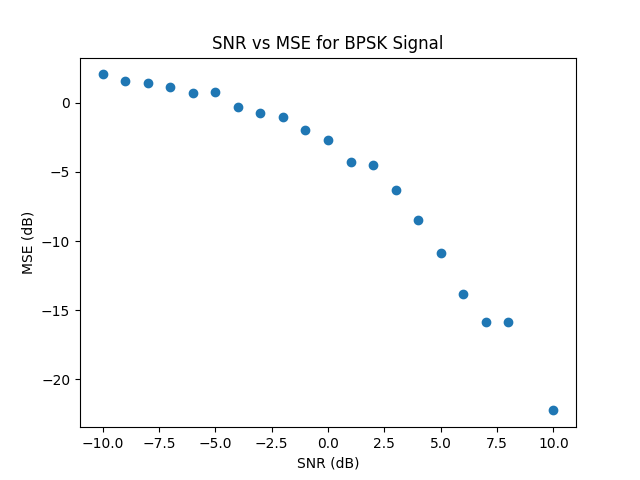
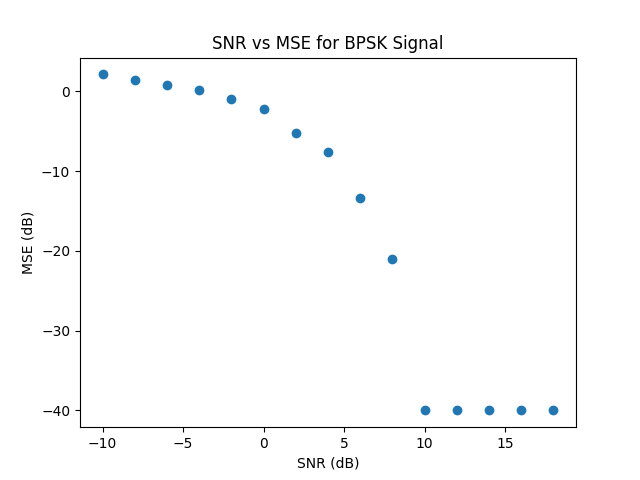
update mse

diff --git a/test_files/test_dfe_vasudevan_mse_pb.py b/test_files/test_dfe_vasudevan_mse_pb.py
@@ -104,48 +104,68 @@ ns = fs / R
 fc = 16e3
 uf = int(fs / R)
 df = int(uf / ns)
+use_rrc = np.array([False,True])
+mse = np.zeros((len(use_rrc),len(snr_dB)),dtype='float')
 
-d = np.array(sg.max_len_seq(bits)[0]) * 2 - 1.0
-# Training phase
-training_sym = np.tile(d, training_rep)
-training_seq = training_sym
-training_seq /= np.max(np.abs(training_seq))
+for k in range(len(use_rrc)):
+    d = np.array(sg.max_len_seq(bits)[0]) * 2 - 1.0
+    _, rc_tx = rrcosfilter(16 * int(1 / R * fs), 0.5, 1 / R, fs)
+    _, rc_rx = rrcosfilter(16 * int(fs / R), 0.5, 1 / R, fs)
+    # Training phase
+    training_sym = np.tile(d, training_rep)
+    # upsample
+    training_sym_up = sg.resample_poly(training_sym,ns,1)
+    if use_rrc[k] == True:
+        training_sym_up = np.convolve(training_sym_up, rc_tx, "full")
+        # training_sym_up = training_sym_up[:int(len(training_sym)*ns)]
+    training_seq = np.real(training_sym_up * np.exp(2j * np.pi * fc * np.arange(len(training_sym_up)) / fs))
+    training_seq /= np.max(np.abs(training_seq))
 
-# Data transmission phase
-data_sym = np.tile(d, rep)
-data_seq = data_sym
-data_seq /= np.max(np.abs(data_seq))
+    # Data transmission phase
+    data_sym = np.tile(d, rep)
+    # upsample
+    data_sym_up = sg.resample_poly(data_sym,ns,1)
+    if use_rrc[k] == True:
+        data_sym_up = np.convolve(data_sym_up, rc_tx, "full")
+        # data_sym_up = data_sym_up[:int(len(data_sym)*ns)]
+    data_seq = np.real(data_sym_up * np.exp(2j * np.pi * fc * np.arange(len(data_sym_up)) / fs))
+    data_seq /= np.max(np.abs(data_seq))
+    training_len = len(training_seq)
+    data_len = len(data_seq)
 
-training_len = len(training_seq)
-data_len = len(data_seq)
+    fade_chan = [1, 0.5]#[0.407, 0.815, 0.407]
+    fade_chan = fade_chan / np.linalg.norm(fade_chan)
+    chan_len = len(fade_chan)
 
-fade_chan = [1, 0.5]#[0.407, 0.815, 0.407]
-fade_chan = fade_chan / np.linalg.norm(fade_chan)
-chan_len = len(fade_chan)
+    for i in range(len(snr_dB)):
+        # SNR parameters
+        snr = 10**(0.1 * snr_dB[i])
+        chan_op_train_pb = transmit(training_seq,fade_chan,snr)
+        chan_op_train = chan_op_train_pb * np.exp(-2j * np.pi * fc * np.arange(len(chan_op_train_pb)) / fs)
+        if use_rrc[k] == True:
+            chan_op_train = np.convolve(chan_op_train, rc_rx, "full")
+            chan_op_train = chan_op_train[:len(chan_op_train_pb)]
+        # LMS update of taps
+        ff_filter,fb_filter = filt_init(chan_op_train,training_sym_up,ff_filter_len,fb_filter_len,chan_len) 
 
-mse = np.zeros(len(snr_dB),dtype='float')
-
-for i in range(len(snr_dB)):
-    # SNR parameters
-    snr = 10**(0.1 * snr_dB[i])
-    chan_op_train = transmit(training_seq,fade_chan,snr)
-    # LMS update of taps
-    ff_filter,fb_filter = filt_init(chan_op_train,training_sym,ff_filter_len,fb_filter_len,chan_len) 
-    chan_op_data = transmit(data_seq,fade_chan,snr)
-    dec_sym = dfe(chan_op_data,ff_filter,fb_filter,ff_filter_len,fb_filter_len)
-    dec_sym = (dec_sym > 0)*2 - 1
-    data_sym = (data_sym > 0)*2 - 1
-    with np.errstate(divide='ignore', invalid='ignore'):
-        mse[i] = 10 * np.log10(np.mean(np.abs(data_sym[:len(dec_sym)]- dec_sym) ** 2))
-    if np.isneginf(mse[i]) == 1:
-        mse[i] = -40
-
-#np.isneginf(mse) = -99
+        chan_op_data_pb = transmit(data_seq,fade_chan,snr)
+        chan_op_data = chan_op_data_pb * np.exp(-2j * np.pi * fc * np.arange(len(chan_op_data_pb)) / fs)
+        if use_rrc[k] == True:
+            chan_op_data = np.convolve(chan_op_data, rc_rx, "full")
+            chan_op_data = chan_op_data[:len(chan_op_data_pb)]
+        dec_sym = dfe(chan_op_data,ff_filter,fb_filter,ff_filter_len,fb_filter_len)
+        dec_sym = (dec_sym > 0)*2 - 1
+        data_sym_up = (data_sym_up > 0)*2 - 1 #data sym or data sym up?
+        with np.errstate(divide='ignore', invalid='ignore'):
+            mse[k,i] = 10 * np.log10(np.mean(np.abs(data_sym_up[:len(dec_sym)]- dec_sym) ** 2))
+        if np.isneginf(mse[k,i]) == 1:
+            mse[k,i] = -40
 
 fig, ax = plt.subplots()
-ax.plot(snr_dB,mse,'o')
+ax.plot(snr_dB,mse[0,:],'o',snr_dB,mse[1,:],'s')
 ax.set_xlabel('SNR (dB)')
 ax.set_ylabel('MSE (dB)')
+ax.legend(['No RRC','RRC'])
 ax.set_xticks(np.arange(snr_dB[0],snr_dB[-1],5))
 ax.set_title('SNR vs MSE for BPSK Signal')
 plt.show()
